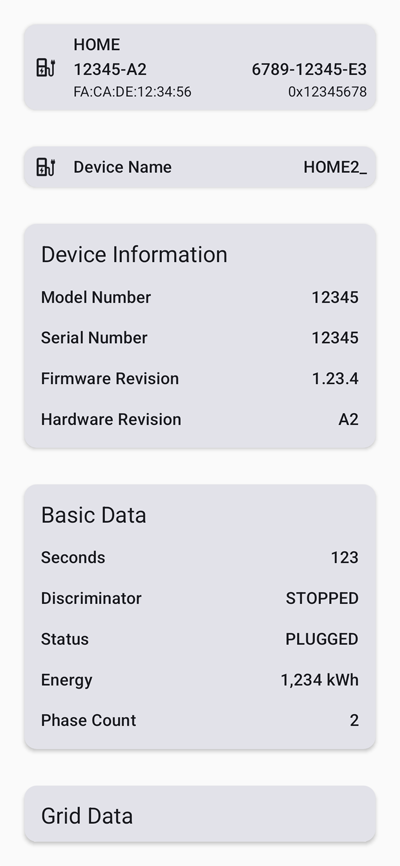
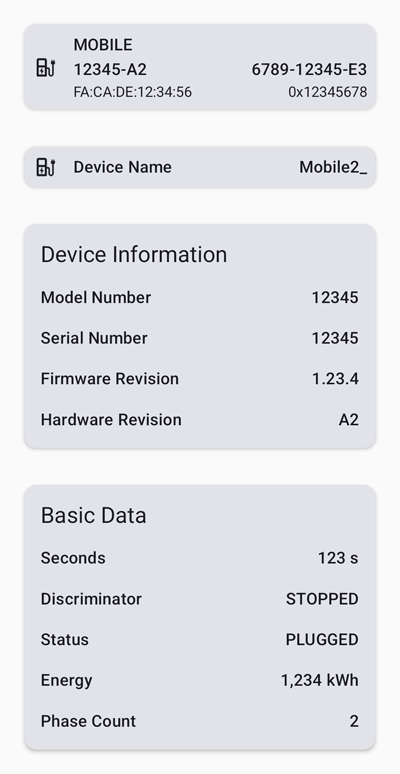
feat: clarify what CHARGING_GRID_DATA.consumed is

diff --git a/app/src/main/java/be/cuypers_ghys/gaai/ui/device/DeviceDetailScreen.kt b/app/src/main/java/be/cuypers_ghys/gaai/ui/device/DeviceDetailScreen.kt
@@ -481,7 +481,7 @@ internal fun GaaiChargingBasicDataCard(
           )
           Spacer(Modifier.weight(1f))
           Text(
-            text = chargingBasicData.seconds.toString(),
+            text = "%3d s".format(chargingBasicData.seconds.toInt()),
             style = MaterialTheme.typography.titleMedium
           )
         }
@@ -647,7 +647,7 @@ internal fun GaaiChargingGridDataCard(
           )
           Spacer(Modifier.weight(1f))
           Text(
-            text = "%.3f kW".format(chargingGridData.consumed.toFloat() / 1000.0),
+            text = "%.3f kWh".format(chargingGridData.consumed.toFloat() / 1000.0),
             style = MaterialTheme.typography.titleMedium
           )
         }
@@ -661,7 +661,7 @@ internal fun GaaiChargingGridDataCard(
           )
           Spacer(Modifier.weight(1f))
           Text(
-            text = chargingGridData.interval.toInt().toString(),
+            text = "%3d s".format(chargingGridData.interval.toInt()),
             style = MaterialTheme.typography.titleMedium
           )
         }

diff --git a/README.md b/README.md
@@ -267,7 +267,7 @@ The Basic Data card shows Basic *Nexxtender Home* and *Nexxtender Mobile* chargi
 | Seconds       | Number of seconds since start of charging                 |
 | Discriminator | Possible discriminator states: STARTED, CHARGING, STOPPED |
 | Status        | Possible states: PLUGGED, CHARGING, FAULT                 |
-| Energy        | Total energy in Wh charged during this session            |
+| Energy        | Total energy in kWh charged during this session           |
 | Phase count   | Charging Phase Count                                      |
 
 ### Grid Data
@@ -277,14 +277,14 @@ It is not supported by the *Nexxtender Mobile*.
 
 ![Grid Data Card](docs/images/GridDataCard.png)
 
-| Field      | Description                  |
-|------------|------------------------------|
-| Timestamp  | Current time                 |
-| L1 Current | Grid phase L1 current        |
-| L2 Current | Grid phase L2 current        |
-| L3 Current | Grid phase L3 current        |
-| Consumed   | Total grid power consumption |
-| Interval   | Cyclic counter from 1 to 900 |
+| Field      | Description                                                                                                     |
+|------------|-----------------------------------------------------------------------------------------------------------------|
+| Timestamp  | Current time                                                                                                    |
+| L1 Current | Grid phase L1 current                                                                                           |
+| L2 Current | Grid phase L2 current                                                                                           |
+| L3 Current | Grid phase L3 current                                                                                           |
+| Consumed   | Total grid power consumption in Wh during this quarter. Set to 0 when ''interval'' is set to 0.                 |
+| Interval   | Counts the seconds in the current quarter. Is set to 0 every multiple of a quarter (hh:00, hh:15, hh:30, hh:45) |
 
 ### Car Data
 
